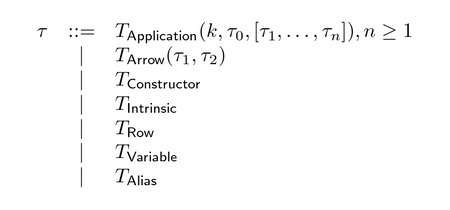
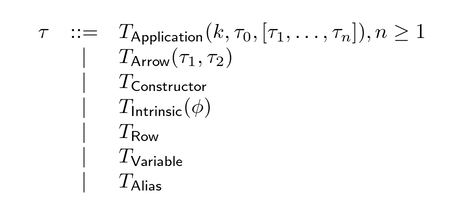
wip

diff --git a/docs/tex/intrinsics.tex b/docs/tex/intrinsics.tex
@@ -1,0 +1,18 @@
+\documentclass[varwidth]{standalone}
+\usepackage{amsmath}
+\usepackage{xcolor} 
+\begin{document}
+\setlength{\fboxsep}{10pt}
+\colorbox{white}{
+  $\displaystyle
+  \begin{array}{rcll}
+    \phi & ::= & \phi_{\mathsf{Bool}} \\
+         & |   & \phi_{\mathsf{Char}} \\
+         & |   & \phi_{\mathsf{Double}} \\
+         & |   & \phi_{\mathsf{Float}} \\
+         & |   & \phi_{\mathsf{Int32}} \\
+         & |   & \phi_{\mathsf{Int64}} \\
+  \end{array}
+  $
+}
+\end{document}

diff --git a/docs/tex/type.tex b/docs/tex/type.tex
@@ -10,7 +10,7 @@
     \tau & ::= & T_{\mathsf{Application}}(k, \tau_0, [\tau_1, \dots, \tau_n]), n \ge 1 \\
          & |   & T_{\mathsf{Arrow}}(\tau_1, \tau_2) \\
          & |   & T_{\mathsf{Constructor}} \\
-         & |   & T_{\mathsf{Intrinsic}} \\
+         & |   & T_{\mathsf{Intrinsic}}(\phi) \\
          & |   & T_{\mathsf{Row}} \\
          & |   & T_{\mathsf{Variable}} \\
          & |   & T_{\mathsf{Alias}} \\

diff --git a/docs/README.md b/docs/README.md
@@ -2,6 +2,17 @@
 
 ## Synopsis
 
+```
+   --------------------     -------------     -------------     -----------------
+   | Surface language | --> |  Lowpass  | --> |  LLVM IR  | --> |  Object code  |
+   --------------------     -------------     -------------     -----------------
+
+   - Parsing
+   - Type checking/inference
+   - Syntax analysis
+   - Desugaring
+```
+
 ## Language overview
 
 ### Language primitives
@@ -16,6 +27,8 @@ Noll supports the following language primitives.
 ### Type system
 
 ![Type system](./type.png "Type system")
+
+![Intrinsic types](./intrinsics.png "Intrinsic types")
 
 ### Expression grammar
 
